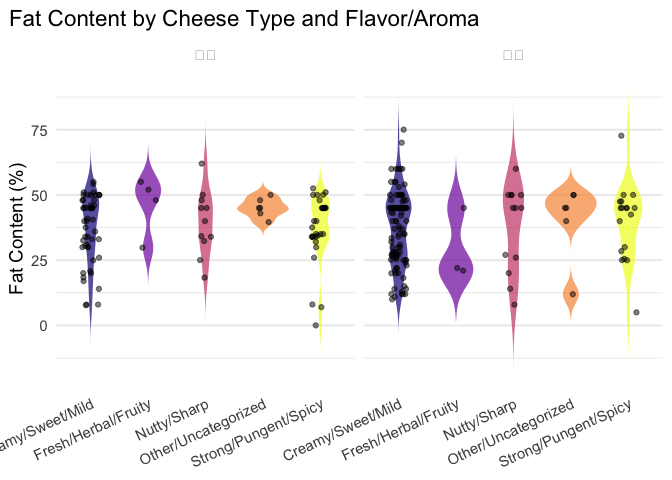
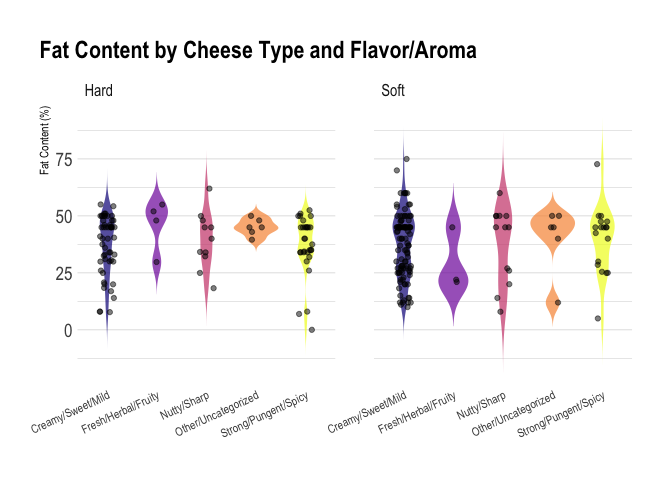
time's up!

diff --git a/README.md b/README.md
@@ -16,6 +16,7 @@ library(tidyverse)
 library(viridis)
 library(ggdist)
 library(ggbeeswarm)
+library(hrbrthemes)
 ```
 
 Data.
@@ -355,7 +356,7 @@ Try a violin with jitter.
 ggplot(plot_data, aes(x = flavor_aroma, y = fat_content_numeric, fill = flavor_aroma)) +
   geom_violin(trim = FALSE, alpha = 0.7, color = NA) +
   geom_jitter(width = 0.15, alpha = 0.5, size = 1.5, color = "black") +
-  facet_wrap(~ type_category, labeller = as_labeller(c(hard = "🪨", soft = "🧽"))) +
+  facet_wrap(~ type_category, labeller = as_labeller(c(hard = "Hard", soft = "Soft"))) +
   scale_fill_viridis(discrete = TRUE, option = "C") +
   labs(
     title = "Fat Content by Cheese Type and Flavor/Aroma",
@@ -363,11 +364,11 @@ ggplot(plot_data, aes(x = flavor_aroma, y = fat_content_numeric, fill = flavor_a
     y = "Fat Content (%)",
     fill = "Flavor/Aroma"
   ) +
-  theme_minimal(base_size = 14) +
+  hrbrthemes::theme_ipsum(base_size = 14) +
   theme(
     plot.title.position = "plot", # ensures title is aligned to the plot area
     plot.title = element_text(hjust = 0), # left-aligns the title
-    axis.text.x = element_text(angle = 25, hjust = 1),
+    axis.text.x = element_text(size = 9, angle = 25, hjust = 1),
     legend.position = "none",
     panel.grid.major.x = element_blank()
   )
@@ -430,7 +431,7 @@ Let’s make that prettier.
 ggplot(plot_data, aes(x = flavor_aroma, y = fat_content_numeric, fill = flavor_aroma)) +
   geom_violin(trim = FALSE, alpha = 0.7, color = NA) +
   geom_jitter(width = 0.15, alpha = 0.5, size = 1.5, color = "black") +
-  facet_wrap(~ type_category, labeller = as_labeller(c(hard = "🪨", soft = "🧽"))) +
+  facet_wrap(~ type_category, labeller = as_labeller(c(hard = "Hard", soft = "Soft"))) +
   scale_fill_viridis(discrete = TRUE, option = "C") +
   labs(
     title = "Fat Content by Cheese Type and Flavor/Aroma",
@@ -438,11 +439,11 @@ ggplot(plot_data, aes(x = flavor_aroma, y = fat_content_numeric, fill = flavor_a
     y = "Fat Content (%)",
     fill = "Flavor/Aroma"
   ) +
-  theme_minimal(base_size = 14) +
+  hrbrthemes::theme_ipsum(base_size = 14) +
   theme(
     plot.title.position = "plot", # ensures title is aligned to the plot area
     plot.title = element_text(hjust = 0), # left-aligns the title
-    axis.text.x = element_text(angle = 25, hjust = 1),
+    axis.text.x = element_text(size = 9, angle = 25, hjust = 1),
     legend.position = "none",
     panel.grid.major.x = element_blank()
   )
